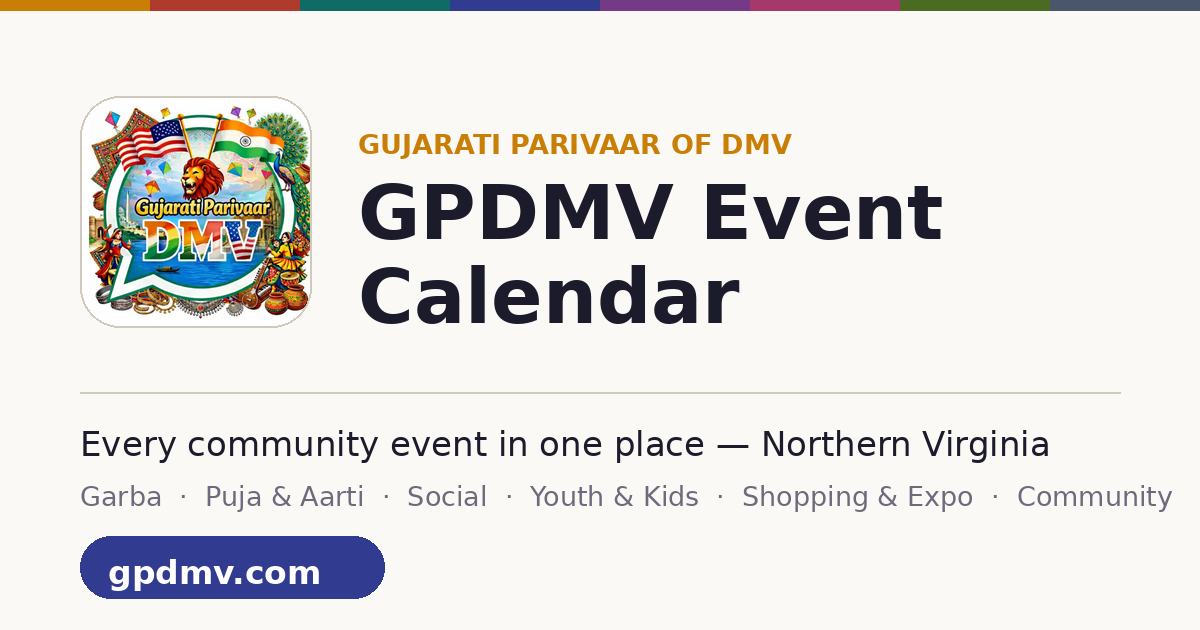
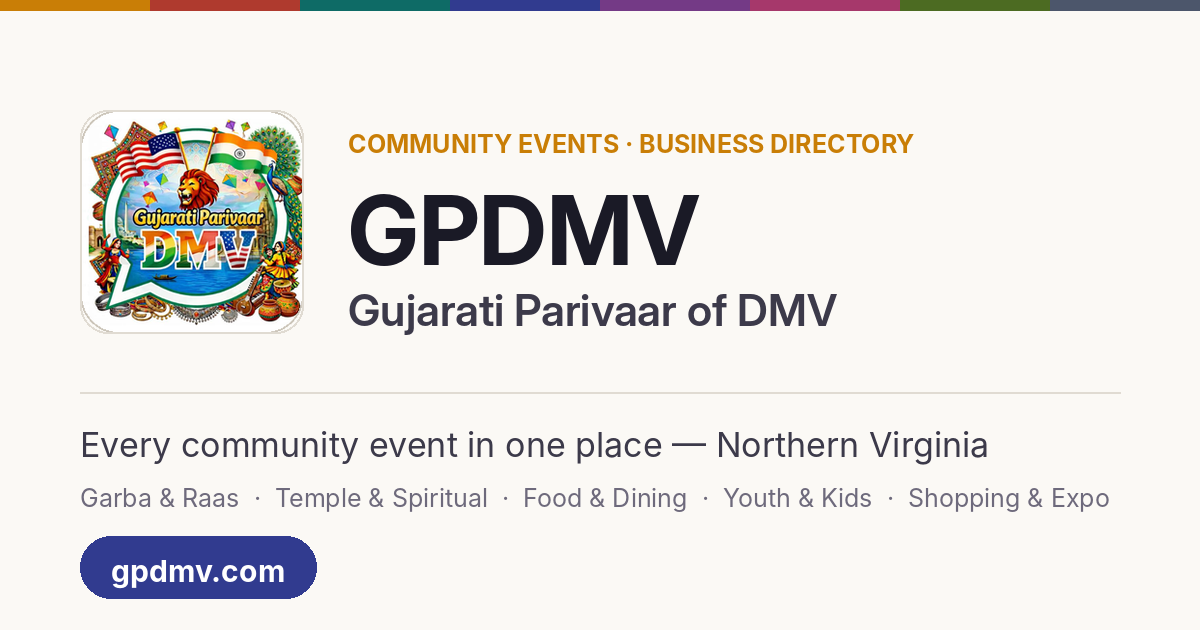
Redraw the link preview card with the current name
Claude-Session: https://claude.ai/code/session_01EtEtokV3yPBUC6Rk532HZo

diff --git a/CHANGELOG.md b/CHANGELOG.md
@@ -3,8 +3,8 @@
 Every change made to the GPDMV calendar and website, newest at the bottom.
 A new version number is added each time something changes.
 
-**Live on gpdmv.com:** up to version 33.
-**Built and waiting on the `dev` branch:** version 34.
+**Live on gpdmv.com:** up to version 34.
+**Built and waiting on the `dev` branch:** version 35.
 
 ---
 
@@ -209,3 +209,8 @@ A Share button on every event. On a phone it opens the usual share sheet
 and a link straight to it. On a laptop the same message is copied, ready
 to paste. Each event now has its own address (gpdmv.com/calendar?e=…),
 so whoever opens it lands on that event rather than on today.
+
+**35 — Share card redrawn · 27 October**
+The picture WhatsApp shows when the link is shared still said “GPDMV
+Event Calendar”. It now reads GPDMV / Gujarati Parivaar of DMV, mentions
+the business directory, and lists the current categories.
